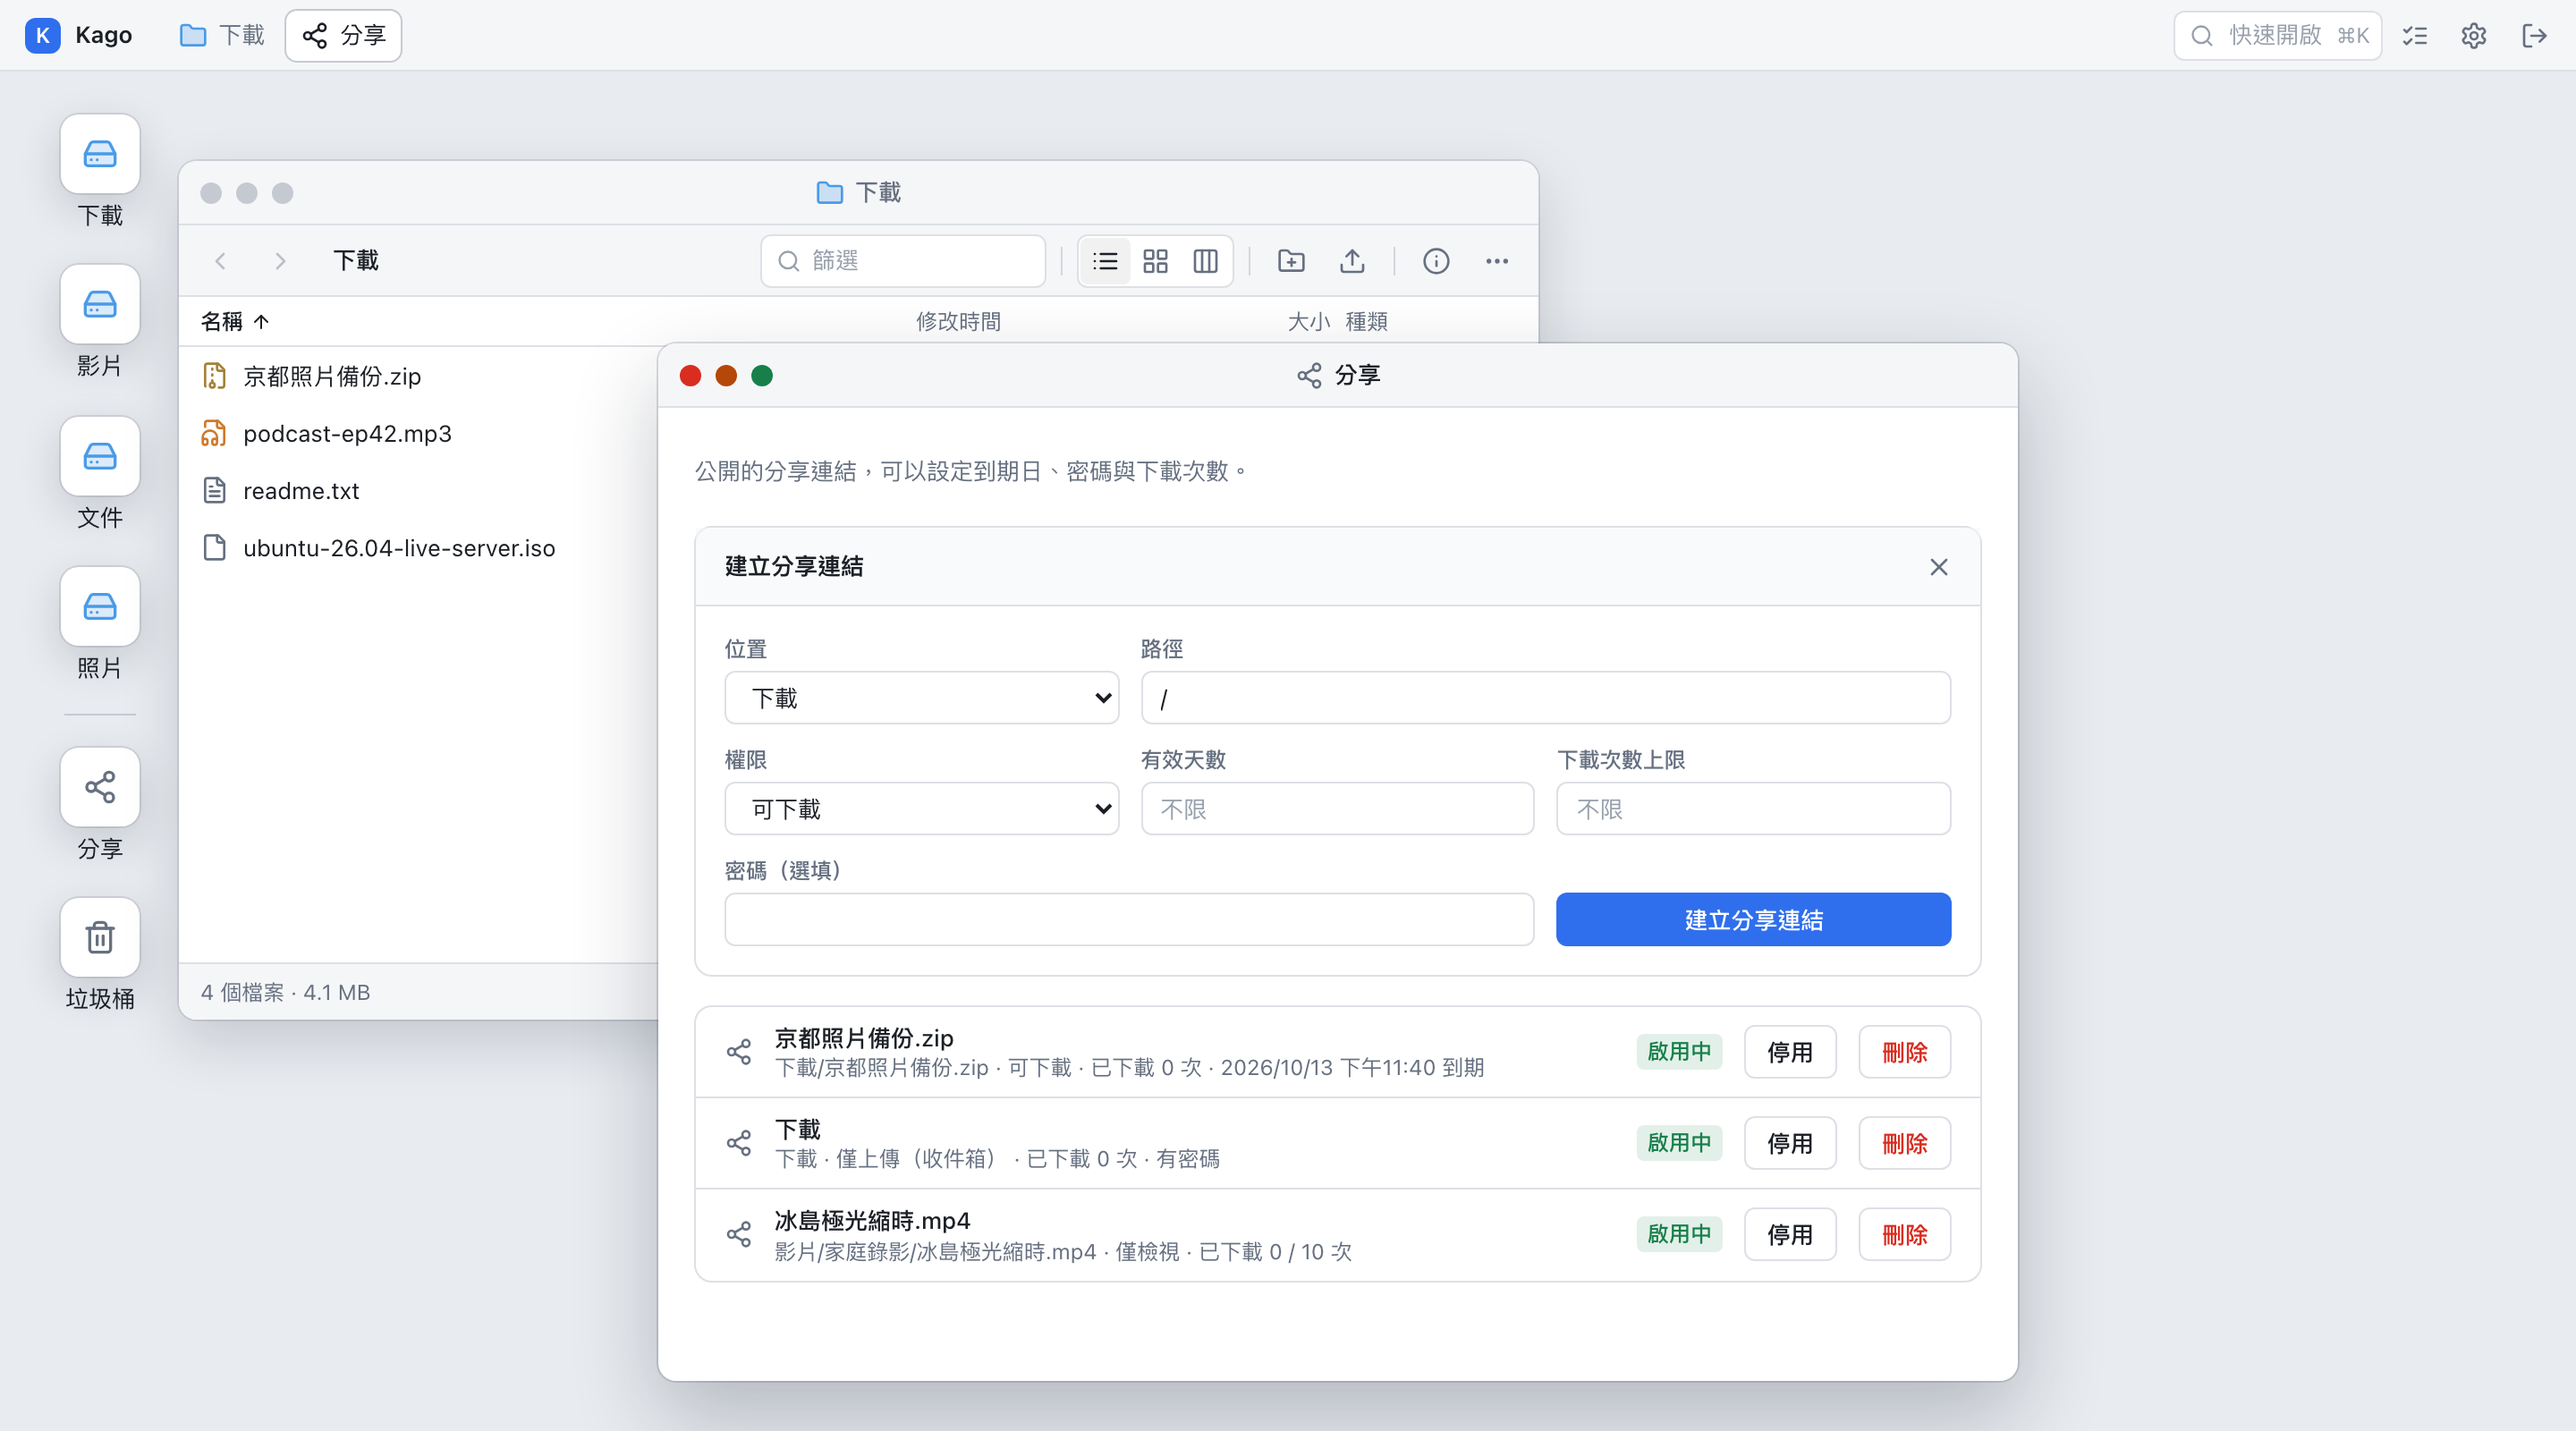
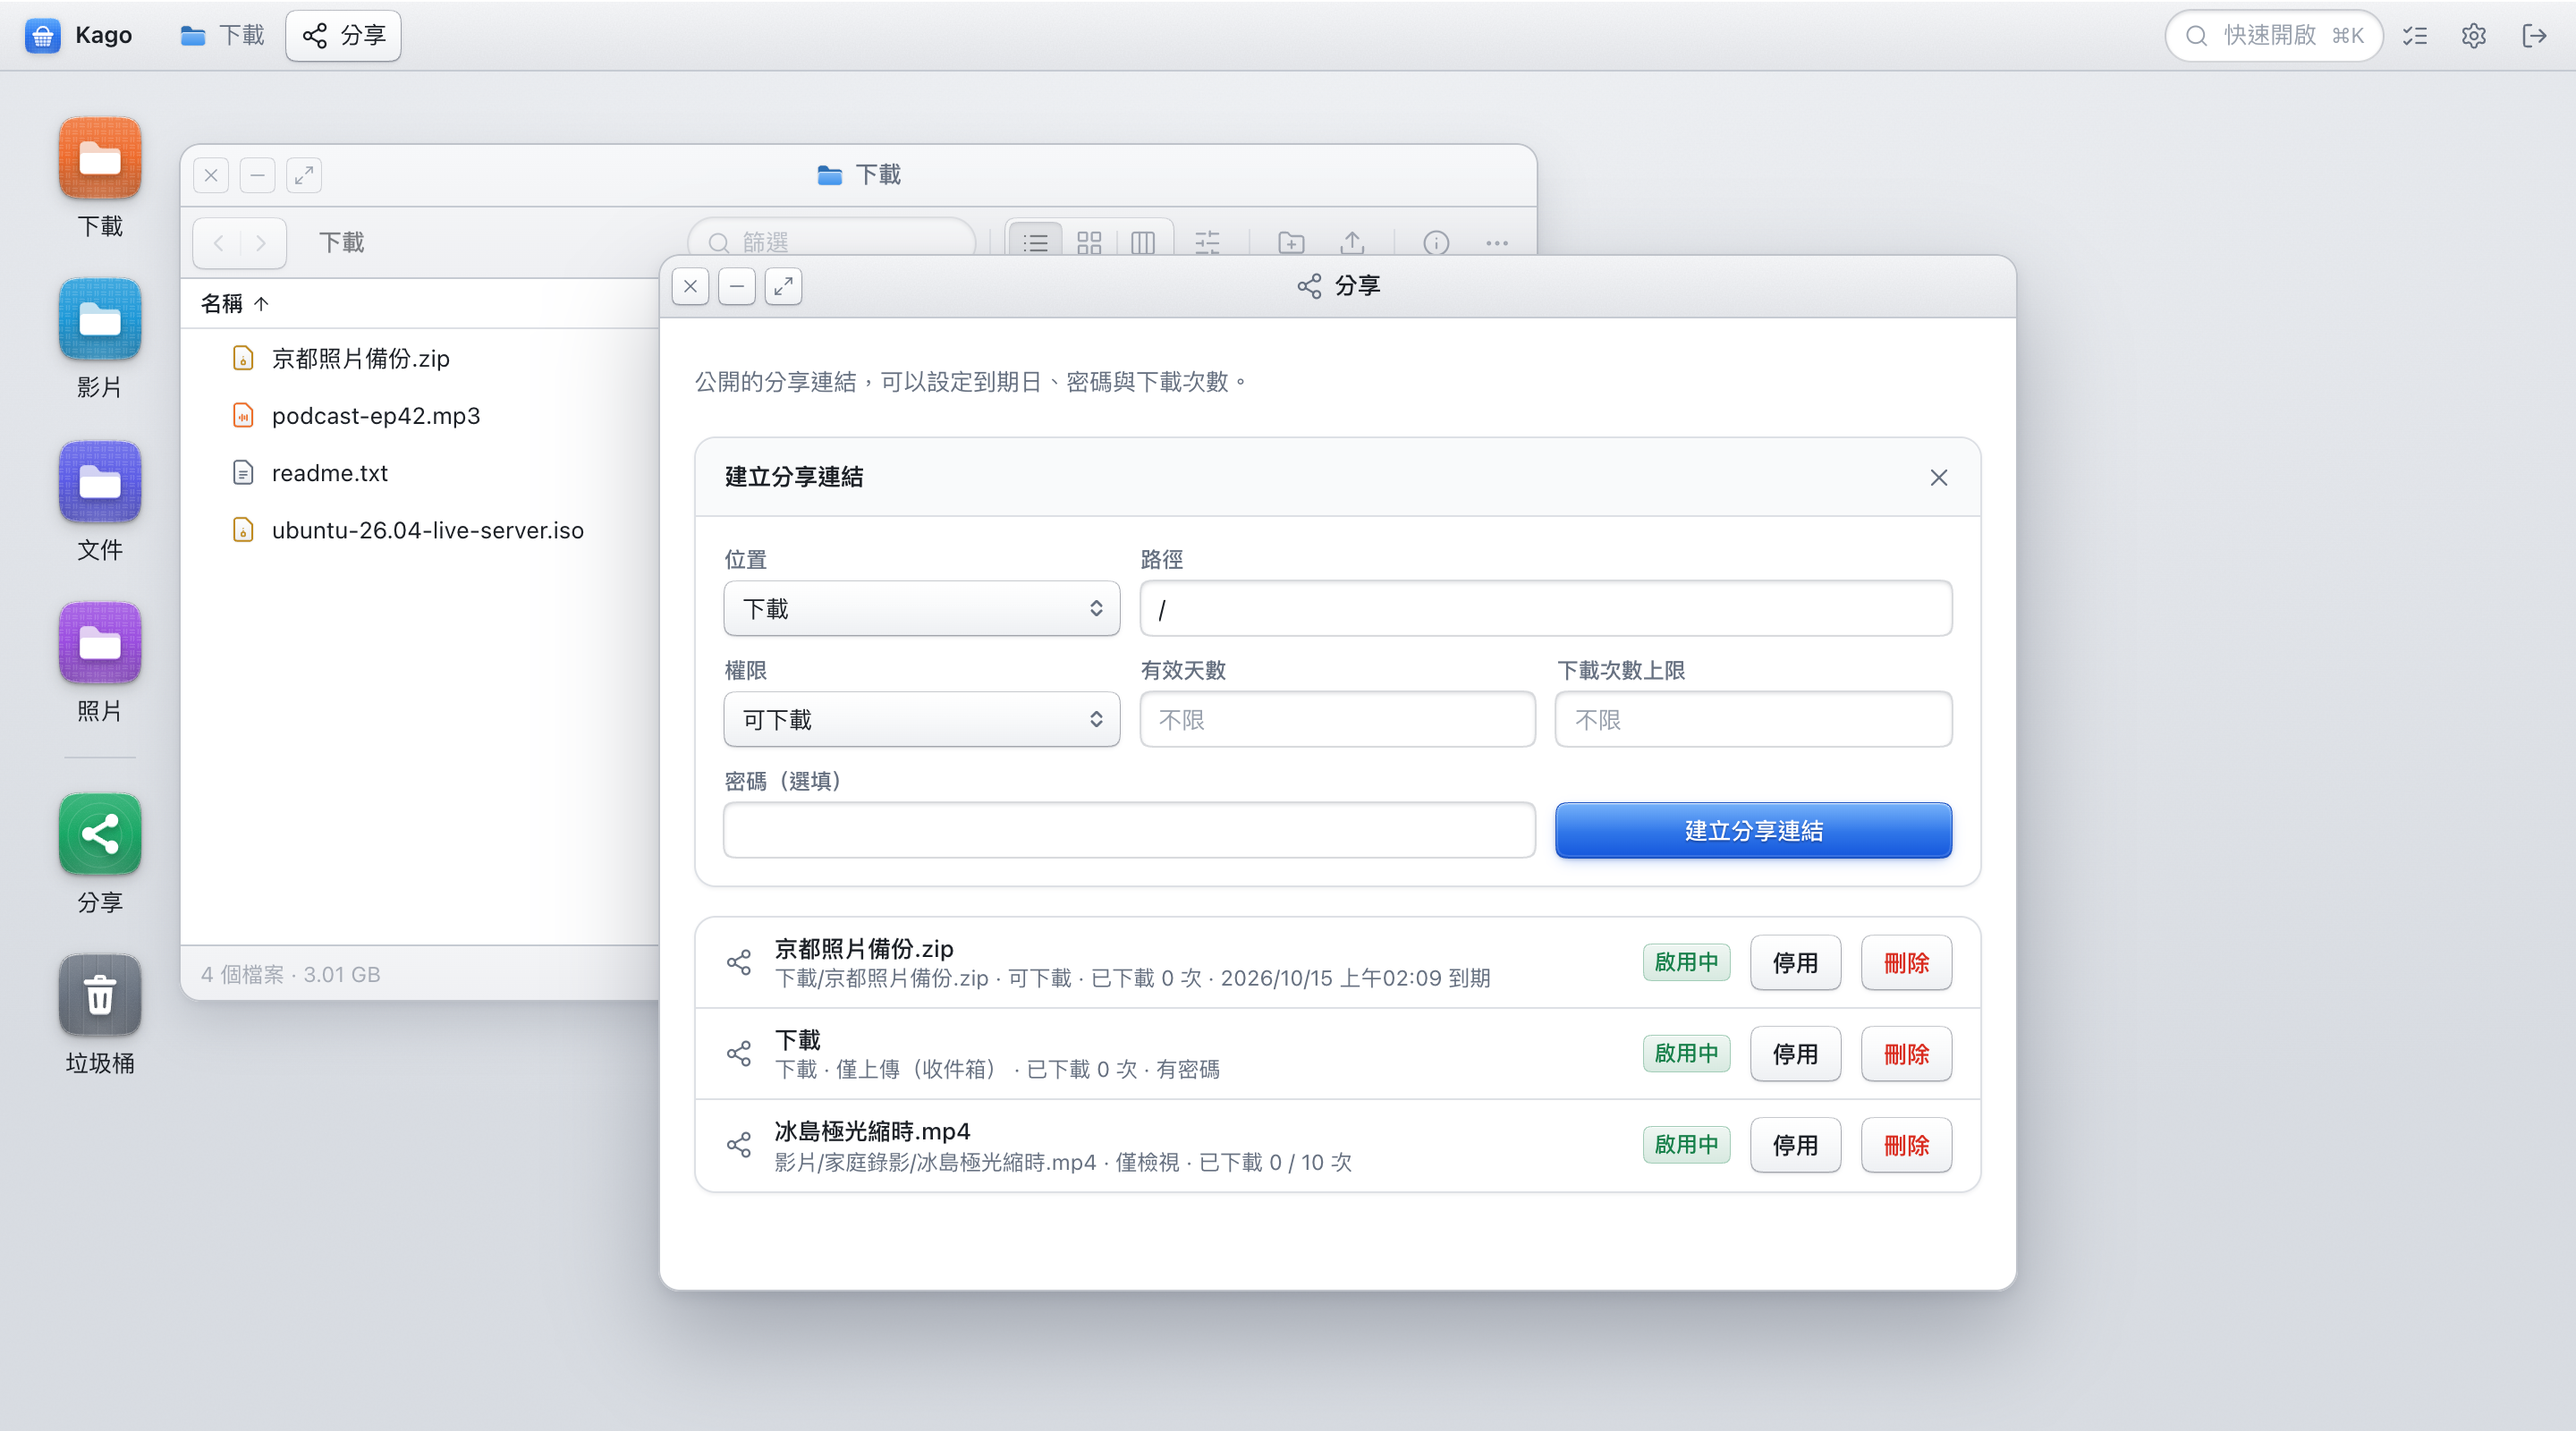
docs: retake the README screenshots with the current interface
Using Kyoto photos from Unsplash.

diff --git a/docs/screenshots/CREDITS.md b/docs/screenshots/CREDITS.md
@@ -1,0 +1,14 @@
+# 截圖中的照片
+
+截圖裡的示範照片來自 [Unsplash](https://unsplash.com)，以 [Unsplash License](https://unsplash.com/license) 授權（可免費用於商業與非商業用途）。
+
+| 截圖中的檔名 | 攝影者 | 來源 |
+| --- | --- | --- |
+| 伏見稻荷 千本鳥居.jpg | Roméo A. | https://unsplash.com/photos/aWgpnQfvk8w |
+| 金閣寺.jpg | Vitor Fontes | https://unsplash.com/photos/DqIpq7hn16g |
+| 祇園 夜.jpg | Fabrizio Chiagano | https://unsplash.com/photos/lm7CYifb5r4 |
+| 哲學之道 櫻花.jpg | Nathalie Lays | https://unsplash.com/photos/KDjYIvQF1YI |
+| 清水寺 夕陽.jpg、2026 京都旅行 4K HEVC.mkv | Snowscat | https://unsplash.com/photos/dS7LuwXCU1w |
+| 嵐山竹林.jpg | Matteo Ferrero | https://unsplash.com/photos/1u0B0akEQx0 |
+| 錦市場.jpg | Dex Ezekiel | https://unsplash.com/photos/HTMBgPvKbMk |
+| 鴨川.jpg | Akira | https://unsplash.com/photos/G7VpjN5HA5U |
